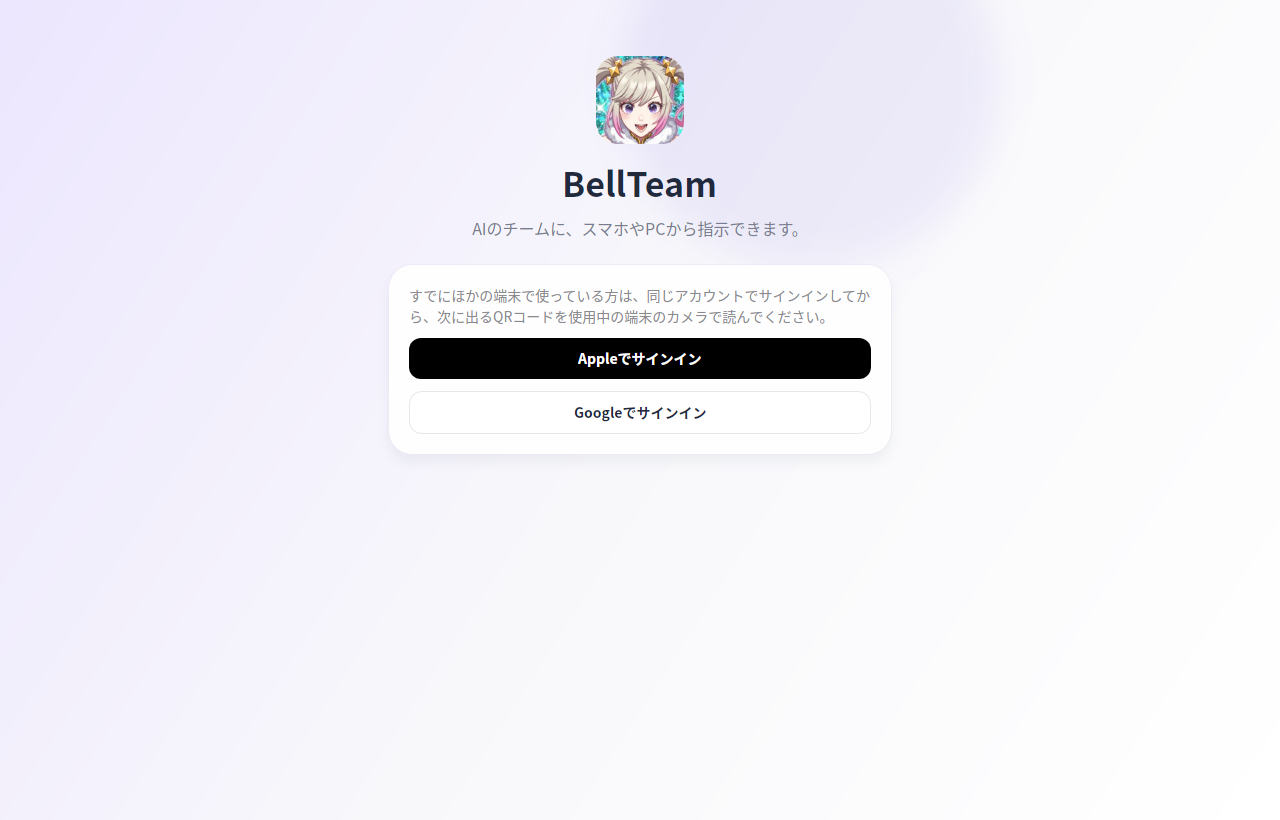
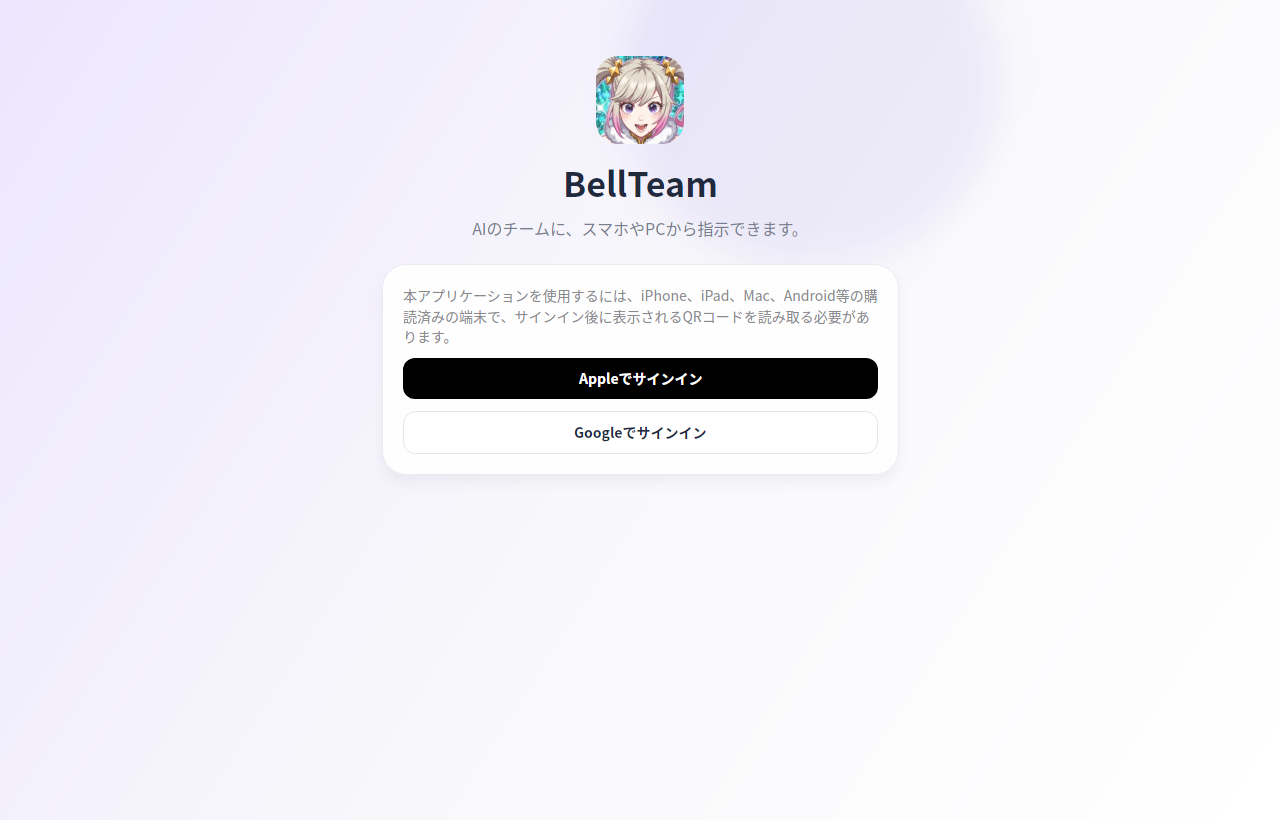
Linux 0.2.33: drop the local FirstSignInChildOnly copy (Anis's #2566 has it); first-screen shots with the child-only sentence

Changed region(s): [[0.3125, 0.3354, 0.6875, 0.5488], [0.4375, 0.2134, 0.5625, 0.2439]]

diff --git a/windows/BellTeam.Core/LocalForm.cs b/windows/BellTeam.Core/LocalForm.cs
@@ -56,8 +56,6 @@ public static class LocalFormText
     // The first screen (the Owner 2026-11-24: the parent-approval process on the first screen, 決裁箱 0.2.2 as the model): the app's name, one line of purpose, then the sign-in; after sign-in on a device not yet approved, this title over the QR with its validity.
     public const string AppName = "BellTeam", Purpose = "AIのチームに、スマホやPCから指示できます。", WaitingTitle = "使っている端末の承認を待っています";
     public static string ValidUntil(DateTimeOffset expiry) => expiry.ToLocalTime().ToString("H:mm") + " まで有効";
-    // TEMP (Anis's child-only-first-screen-text PR owns it; take his on merge): same name and text. For devices that cannot become a parent (Windows, Linux).
-    public const string FirstSignInChildOnly = "本アプリケーションを使用するには、iPhone、iPad、Mac、Android等の購読済みの端末で、サインイン後に表示されるQRコードを読み取る必要があります。";
     public const string FirstSignIn = "すでにほかの端末で使っている方は、同じアカウントでサインインしてから、次に出るQRコードを使用中の端末のカメラで読んでください。";
     // Devices that cannot become a parent (Windows and Linux only; the Owner 2026-11-24): the lead above the sign-in buttons. iPhone, Mac and Android keep FirstSignIn.
     public const string FirstSignInChildOnly = "本アプリケーションを使用するには、iPhone、iPad、Mac、Android等の購読済みの端末で、サインイン後に表示されるQRコードを読み取る必要があります。";
